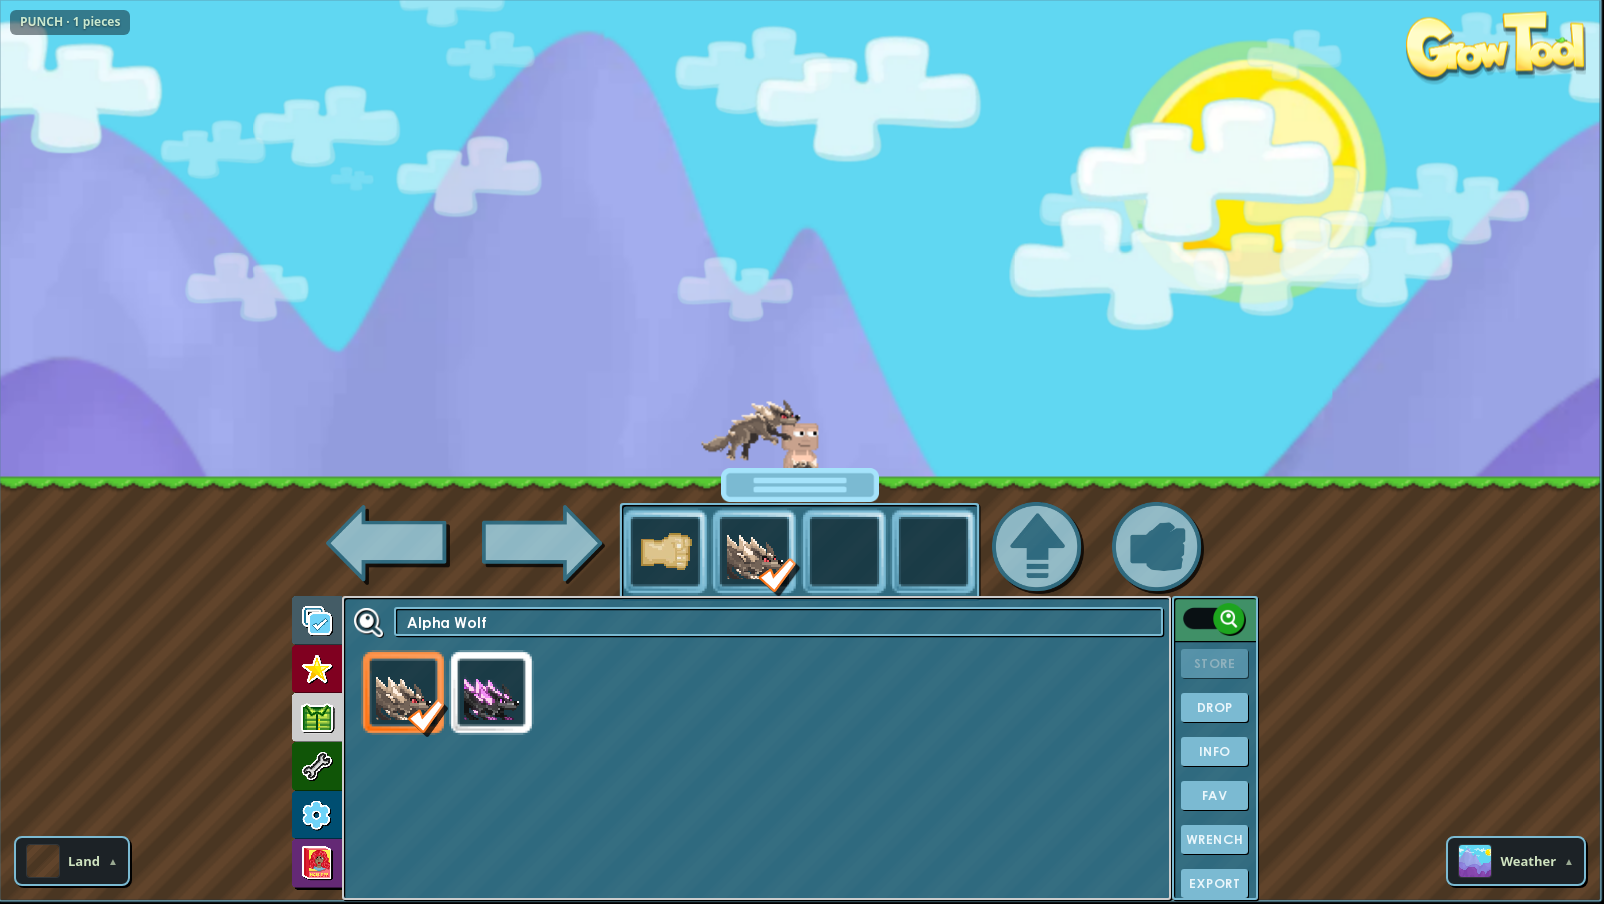
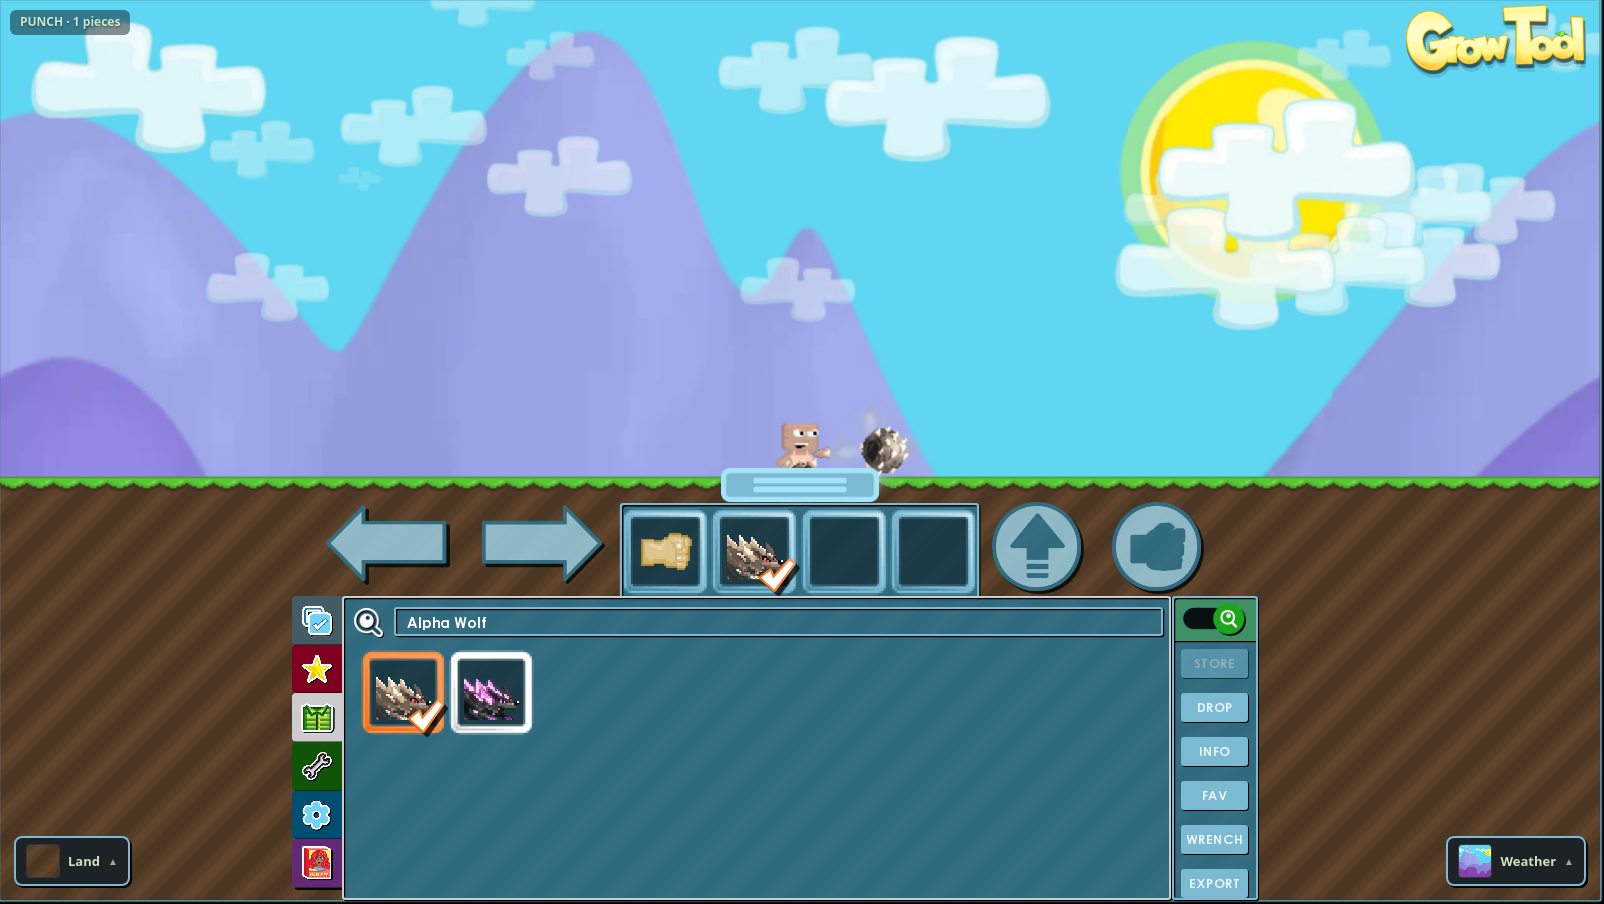
Correct the pet render-verification record against the live source bundle
Cross-checked the current SetPlannerGT bundle (app.8f20650106.js):
the machine extra is emitted only in the non-dragon machines at
hover-at-target (cell [10,row+1], dx 4, rotation floor(clock/2)%360,
additive; the dragon branch early-returns), so the earlier 'dragon
wing' label was a mislabel. The measured my -32 -> -16 translation is
the source's state-6 +16 hover offset, not an upward leap.

Also narrows the QA record: 319 ms is the observed wall-clock follow
delay, not an exact tick-count validation; the proxy-deployment
missing-player symptom stays unexplained rather than attributed; the
idle screenshots do not exercise arm motion or terrain edges. The
hover-extra screenshot is replaced with a capture taken while the
punch is still held (plus a zoomed crop).

diff --git a/PET_SYSTEM_REVISION.md b/PET_SYSTEM_REVISION.md
@@ -12,7 +12,7 @@ Read this after `ARCHIVE_MOUNT_PET_REVISION.md` and `STATE_ROUTING_REVISION.md`.
   - **Machine pets (kind 200)**: wolf (11704/11706), dragon (11562), Crimson Thief Mask (13116) and Captain Bark (13116-family config, item 15336 uses flyWalk instead) with the source state machines (`PET_MACHINES`), including the wolf's punch leap toward `punchAim`.
   - **Pet cells**: `petCellNow` samples `stand/move/rise/fall` rows on the pet's **own clock** (`t68`), selected by the pet's last-tick displacement and ground state. Cells are absolute (`cell[0]*sw`, `cell[1]*sh`), verified against the live canvas (wolf resting cell `(0,13)` reads `(0,704)` on `tf_page1.png`).
   - **Leash string**: kinds 4/30 draw a line primitive from the pet to the arm-anchored hand point (`petString`), rendered by `render.mjs` as a canvas line (`lineCap: round`, default rgb `[180,180,180]`). The piece is flagged `petLine` and cleaned up every step.
-  - **Machine extras**: authored-space copies of the main piece (dragon wing) flagged `petExtra`, rotated around the main pin, cleaned up every step.
+  - **Machine extras**: authored-space copies of the main piece flagged `petExtra`, rotated around the main pin, cleaned up every step. Emitted only by the non-dragon machines at their hover-at-target state (the wolf's spinning piece); the source's dragon branch selects cells directly and emits no extra (verified against the live bundle `app.8f20650106.js`).
   - **Punch**: `PunchDelay` publishes 1 on a punch event and decays on the pet clock; the wolf leap targets the punch aim. The sprite flip follows the source `SQ`: `(petPunching ? hostFacingLeft : petFaceLeft) XOR hostMirror` — while the pet shows punch cells (none ship in the current catalog) it faces the player. The previous aim-side guess (`punchAimLeft`) was removed as unsupported.
 - **`src/catalog-adapter.mjs`**: imports `pet-system.mjs` (old `pet-motion.mjs` deleted from both trees). Machine pets without `gameIcon` pet records get a generated 64×64 piece from their `parts` rect (`sx: rect[0], sy: rect[1]-32`, anchor 0.5/0.5 at the part's authored `at`) — verified against the live canvas. `advancePet` now runs **before** `advanceXmlRenderer` so scripted states (Captain Bark) can read the pet variables.
 - **`src/xml-renderer.mjs`**: `variable()` resolves flat `motion.petVars` keys first; `CompareCustomVariable` added with the source's numeric coercion and `operatorType ?? operator ?? "Equal"` semantics.
@@ -37,11 +37,11 @@ Read this after `ARCHIVE_MOUNT_PET_REVISION.md` and `STATE_ROUTING_REVISION.md`.
 A later session completed the empirical render verification end-to-end against the local server with a headless browser driving the real UI (search + two-click grid equip). Full measurements and screenshots: `evidence/pet-render-browser-qa.json` and `evidence/screenshots/pet-*.png`.
 
 - **All representative pets render**: Puppy Leash (kind 8 trail), Butterfly Leash (kind 1 flyer), Calf Leash (kind 0 trail), Summer Kite (kind 4 kite + string), Alpha Wolf / Pet Blood Dragon / Crimson Thief Mask (kind 200 machines, the mask via its generated 64×64 piece) and Captain Bark (kind 38 flyWalk script pet).
-- **Follow lag reproduced**: holding right, the player starts moving at t=847 ms and the pet at t=1166 ms — a 319 ms (~19-20 tick) lag, matching the source's 20-tick trail flush.
-- **Wolf punch leap and hover extra**: a held punch drives the leap (y arc −32→−16→−32, 100+ units of travel toward the punch aim, past the player), the wolf faces the player while punching (source `petPunching` semantics), and at hover-at-target the machine pushes its second piece — cell `[10, row+1]`, rotated ~93°, additively blended — confirmed as two `RenderPet` pieces for 40+ frames. The dragon machine follows the motion state directly with no extras, as ported.
-- **Bug found and fixed — leash string dropped by the host atlas filter**: `renderAvatar` in `js/app.js` and `demo/app.js` filtered draw calls with `atlases.has(c.atlas)`; the string is a line primitive with no atlas, so it never reached `drawCanvas`. Both hosts now pass line pieces through (`c.line || atlases.has(c.atlas)`) and exclude them from the missing-atlas scan. The Summer Kite string now renders from the pet to the hand anchor. (The earlier "player invisible in world" symptom on the proxy-deployed copy did not reproduce on a local server and was an environment artifact, not app code.)
+- **Follow lag reproduced**: holding right, the player starts moving at t=847 ms and the pet at t=1166 ms — an observed wall-clock follow delay of 319 ms (~19-20 frames at the observed frame rate), consistent with the source's 20-tick trail flush.
+- **Wolf punch lunge and hover extra**: a held punch drives the lunge toward the punch target (100+ units of horizontal travel, fist height), and at hover-at-target the machine pushes its second piece — cell `[10, row+1]`, rotated on the pet clock, additively blended — confirmed as two `RenderPet` pieces for 40+ frames and visible as the bright spin streak over the lunging wolf (screenshot captured with the punch still held). The measured piece translation `my` −32→−16 is the source's state-6 `+16` hover offset (`'y': ... + (st===6 ? 16 : 0)` in the bundle), not an upward leap. The dragon machine follows the motion state directly with no extras, as ported and as in the source.
+- **Bug found and fixed — leash string dropped by the host atlas filter**: `renderAvatar` in `js/app.js` and `demo/app.js` filtered draw calls with `atlases.has(c.atlas)`; the string is a line primitive with no atlas, so it never reached `drawCanvas`. Both hosts now pass line pieces through (`c.line || atlases.has(c.atlas)`) and exclude them from the missing-atlas scan. The Summer Kite string now renders from the pet to the hand anchor. (The earlier "player invisible in world" symptom on the proxy-deployed copy did not reproduce on a local server; its cause was not isolated — see the note below.)
 - **Regression check after the fix**: `npm test` 111/111; `demo/test` 65/72 with the same 7 pre-existing failures as `4fb7669`.
-- The flat-floor `solidAt` and the one-frame arm-angle lag are visually imperceptible in the preview (the string anchor tracks the hand); both remain documented placeholders below.
+- The earlier "player invisible in world" symptom on the proxy-deployed copy did not reproduce on a local server; its cause on that deployment was not isolated, so it stays unexplained rather than attributed. The flat-floor `solidAt` and the one-frame arm-angle lag remain documented placeholders below — the idle screenshots do not exercise arm motion or terrain edges.
 
 ## Remaining work
 
